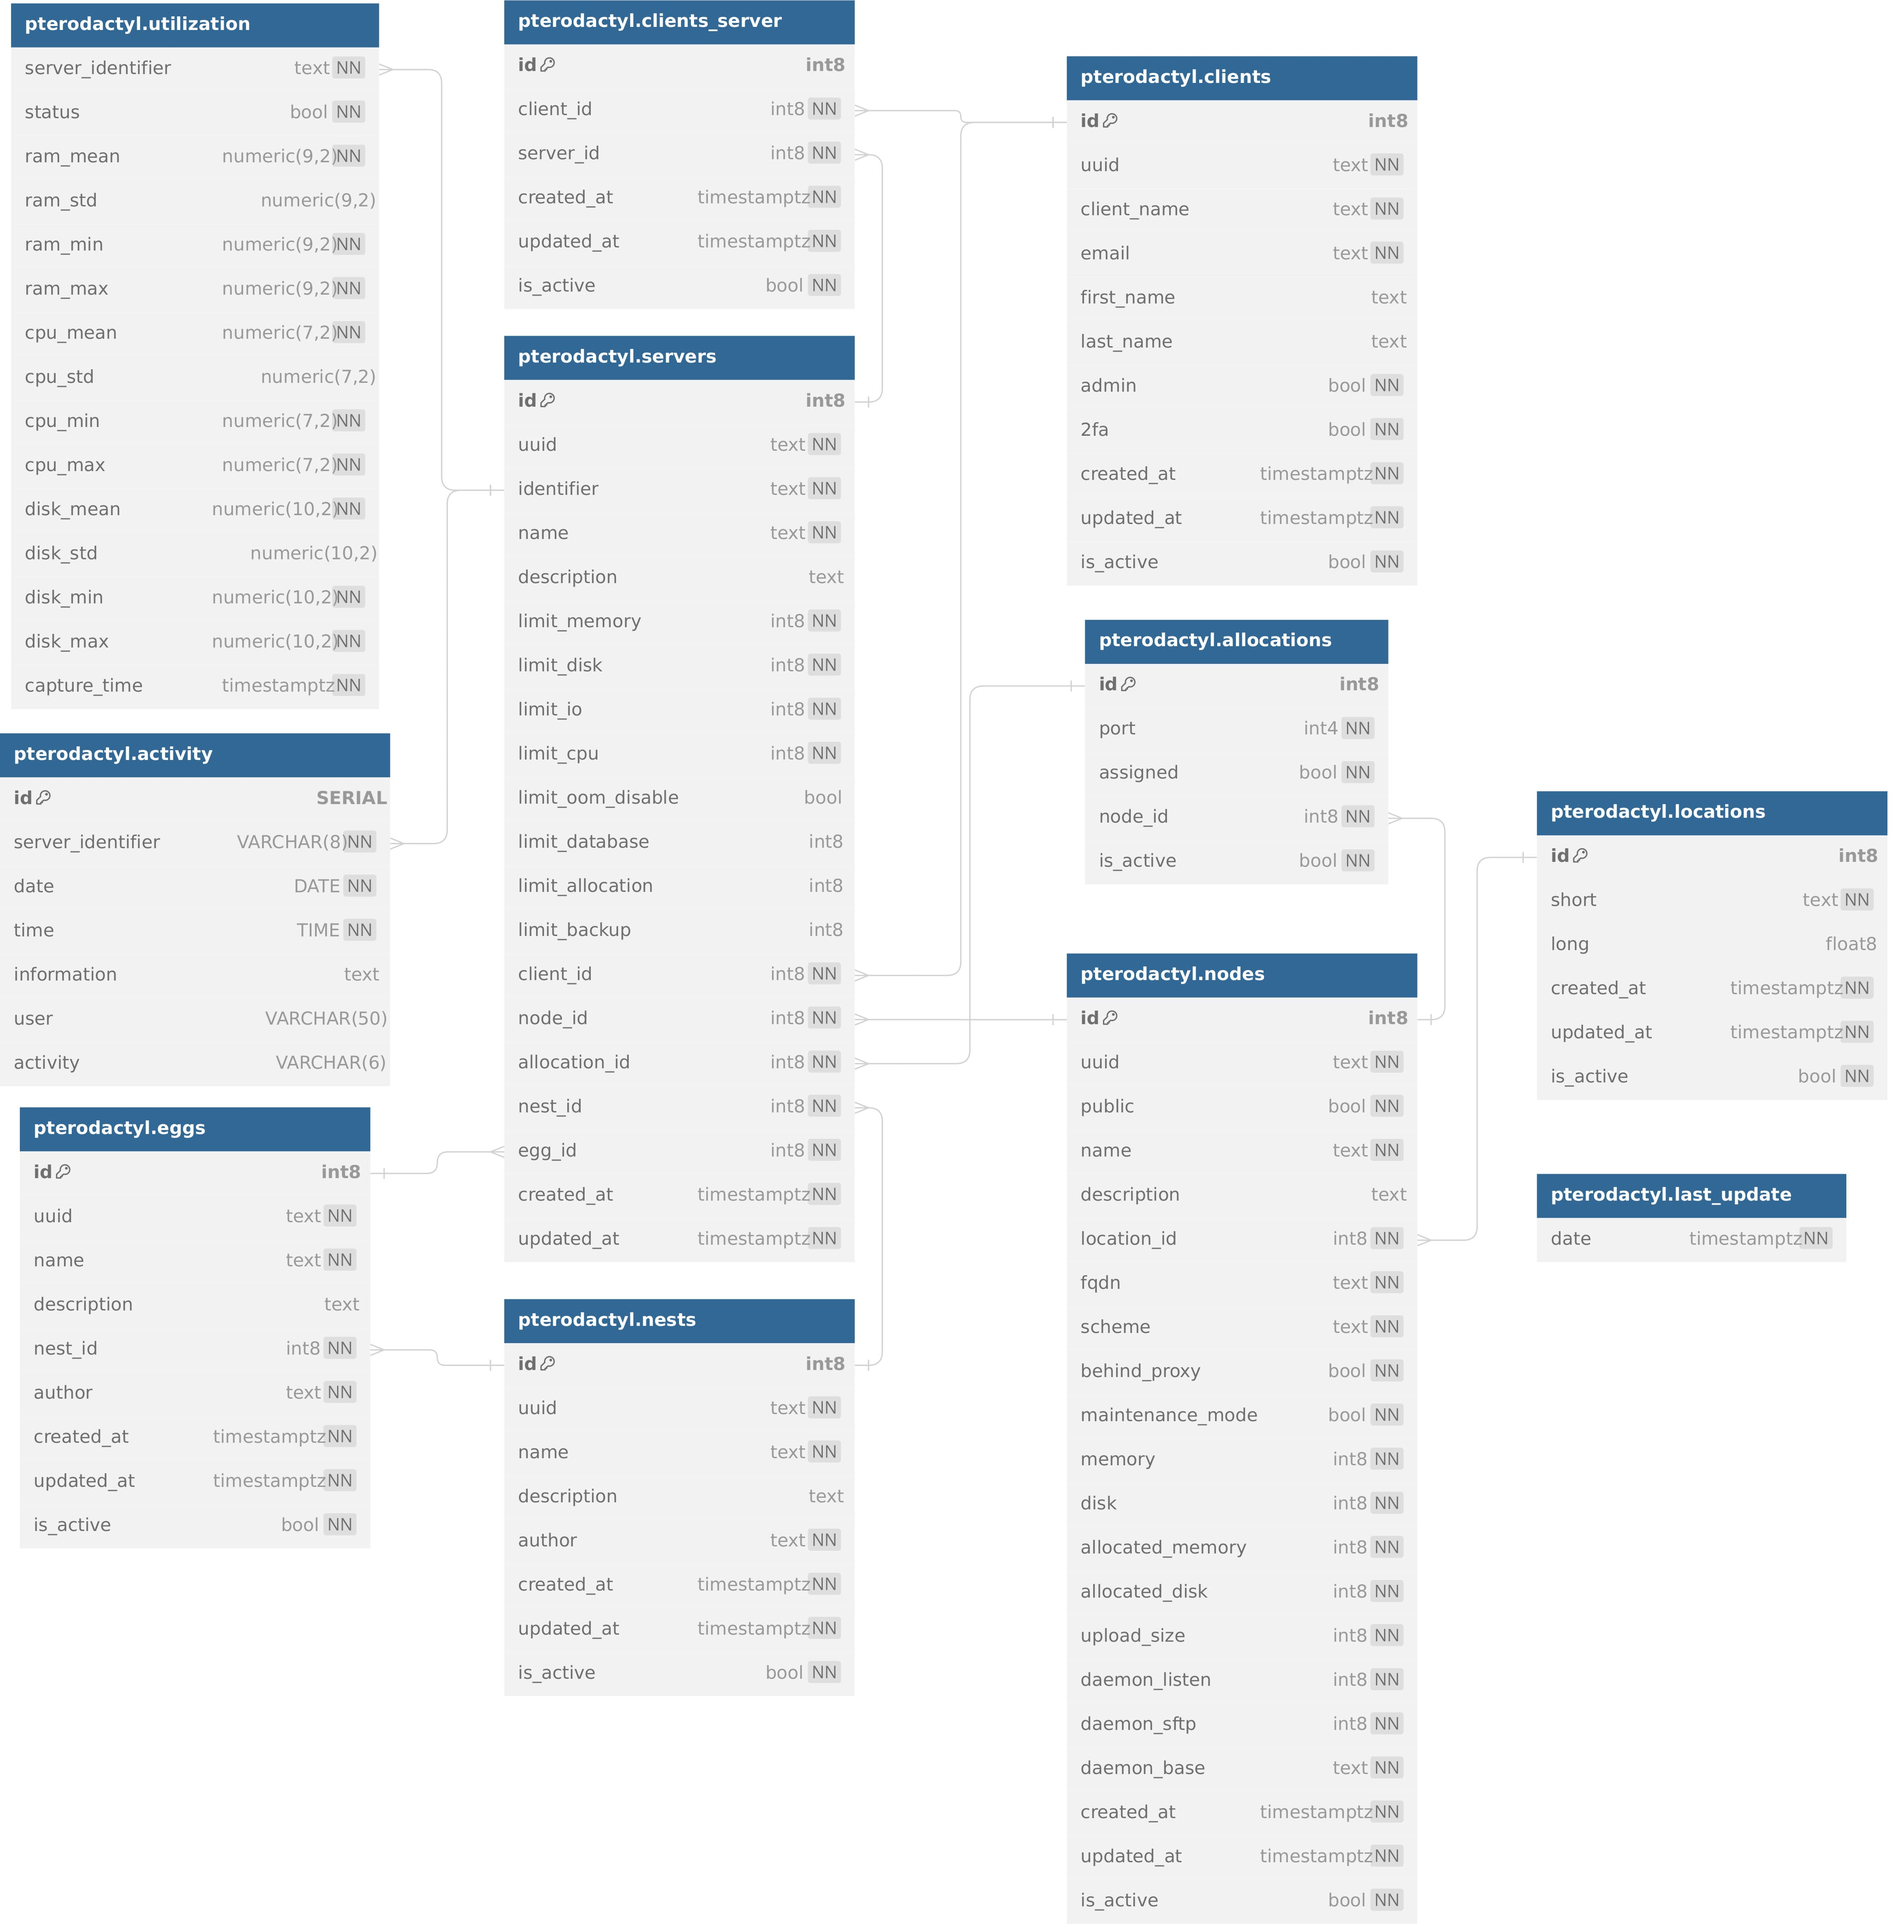
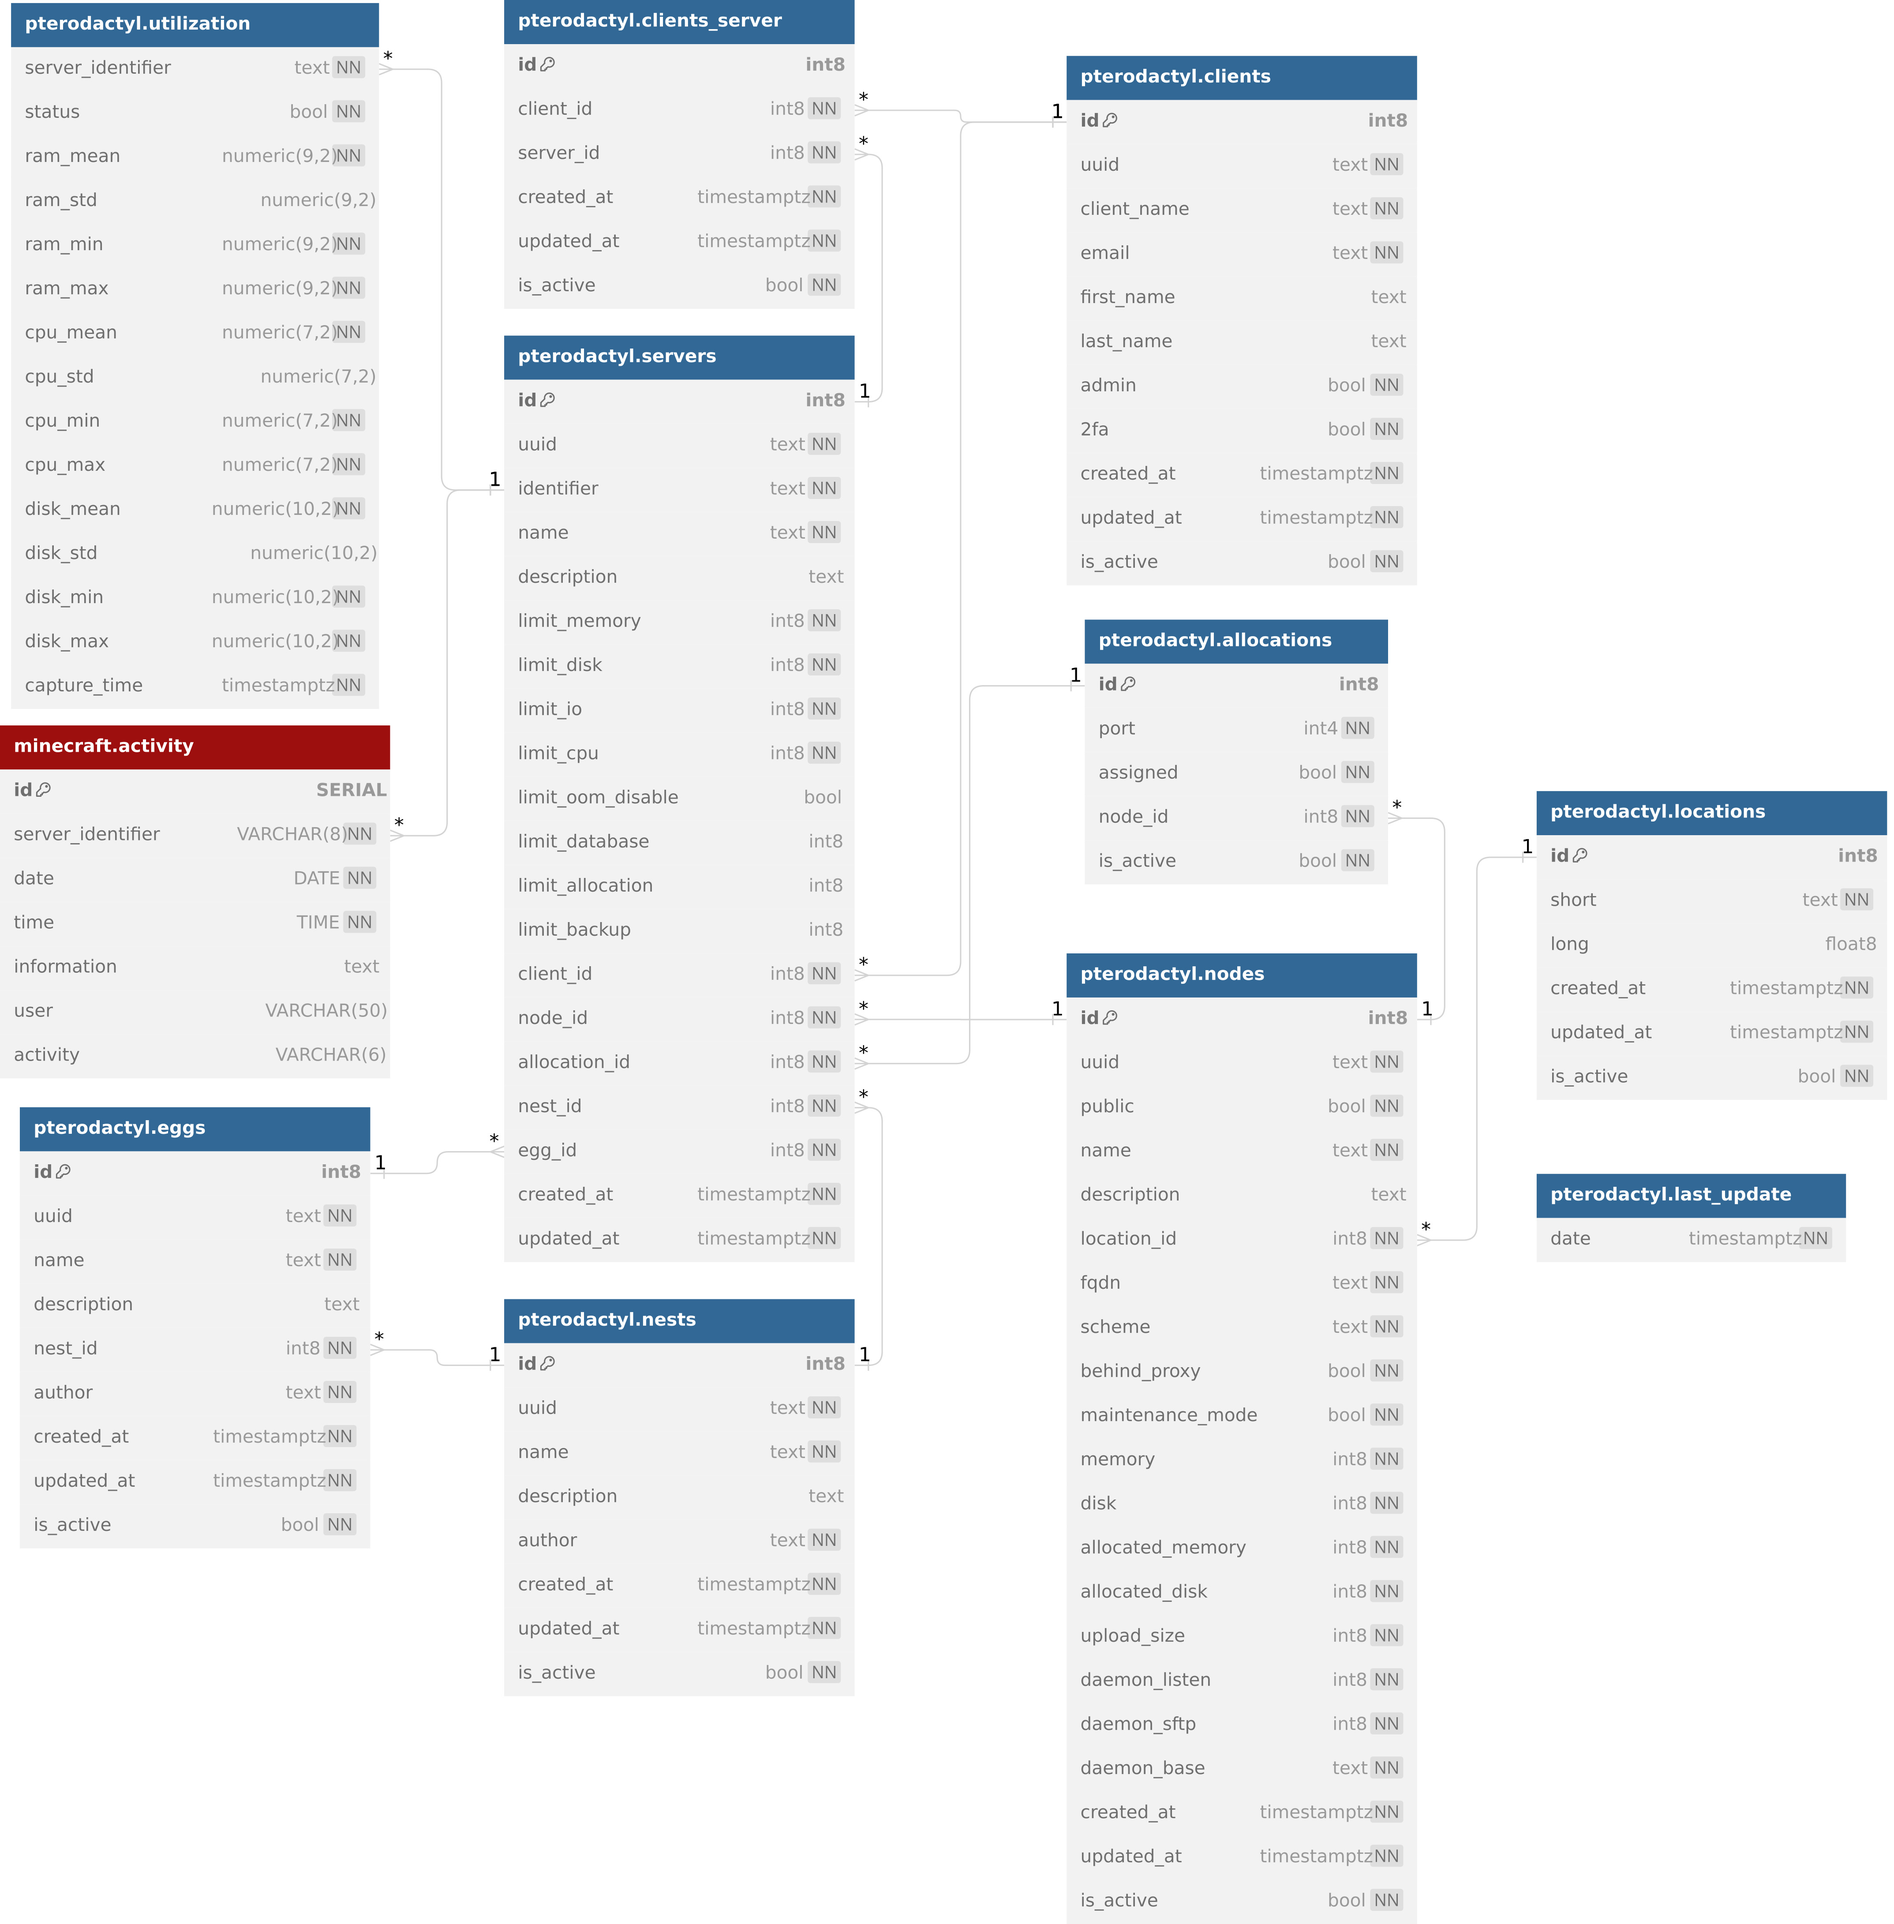
Adding Data Modeling on datawarehouse documentation

Changed region(s): [[0.0, 0.3742, 0.2185, 0.5613], [0.0, 0.499, 0.0624, 0.5613]]

diff --git a/postgres_datawarehouse/README.md b/postgres_datawarehouse/README.md
@@ -23,6 +23,10 @@ We chose to use PostgreSQL because it is self-hosted and free. While it is typic
 
 ## Data Modeling (pterodactyl)
 
-[I'll do this (leadvic)]
+For the `pterodactyl` schema, we adopted a structure resembling a star schema, with the `servers` table at the center. However, it's important to note that the `servers` table is not our fact table. The measurable data resides in the `utilization` table and the `activity` table across different schemas, such as the `activity` table in the `minecraft` schema.
+
+This schema design is based on the data retrieved from the `Pterodactyl API` and serves as the foundation for our analyses, featuring numerous dimension tables.
+
+Below, you can easily explore the relationships between the data. For more in-depth information, we recommend reviewing the various `.sql` files available here, as they all include comments on each table and attribute
 
 ![ERD/ERM](../images/ERD_pterodactyl.jpg)
